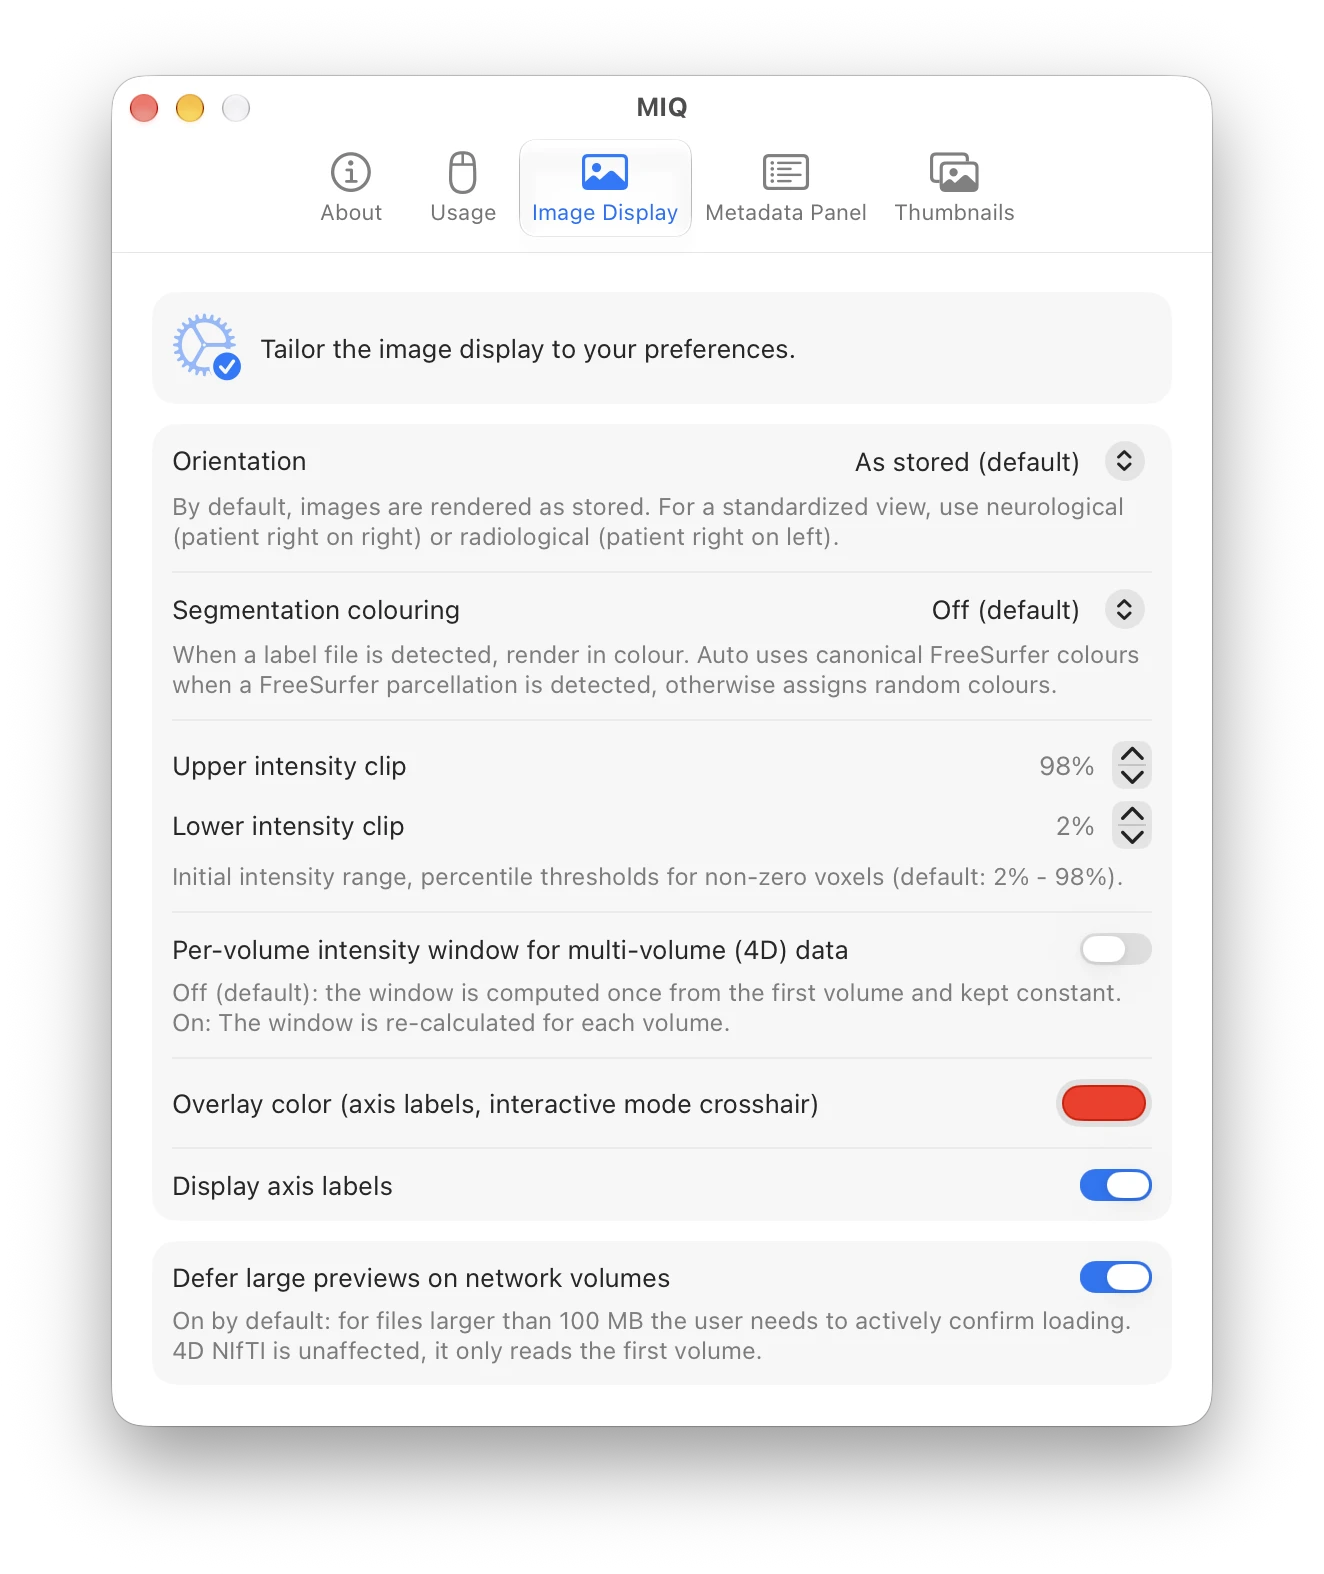
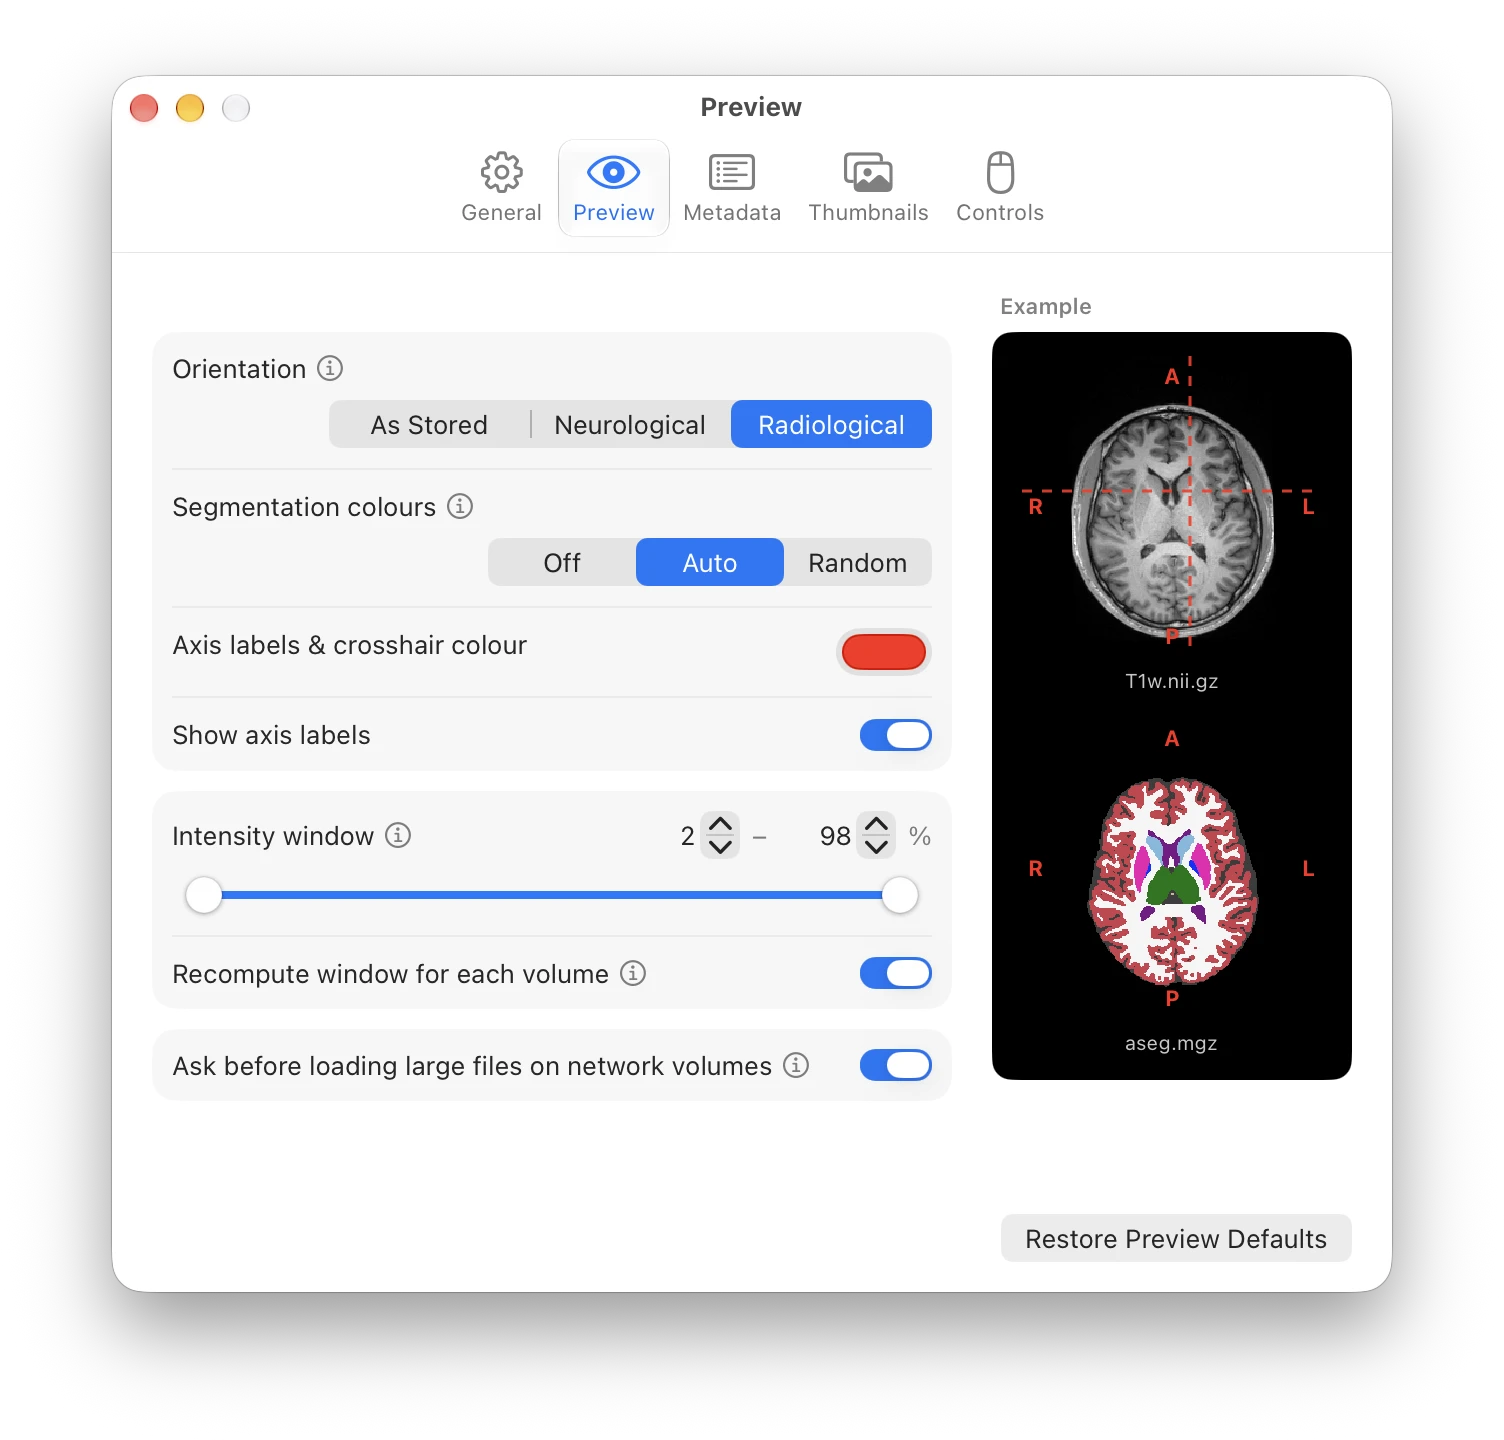
Settings GUI refinement, screenshots update

diff --git a/docs/index.html b/docs/index.html
@@ -351,7 +351,7 @@
       <div class="card">
         <span class="ic">🎨</span>
         <h3>Segmentation colors</h3>
-        <p>Optionally colors integer label maps (segmentations), including the canonical FreeSurfer LUT for aseg/aparc segmentations. Off by default, activate via Settings.</p>
+        <p>Automatically colors integer label maps (segmentations), using the canonical FreeSurfer LUT for aseg/aparc parcellations. Can be switched off in the companion app.</p>
       </div>
     </div>
   </div>
@@ -431,20 +431,20 @@ brew install --cask miq</pre>
     <div class="section-head">
       <span class="eyebrow">Make it yours</span>
       <h2>Settings for every preference</h2>
-      <p>Adjust render orientation, intensity scaling, label colors, and the metadata panel from the companion app.</p>
+      <p>Adjust orientation, intensity scaling, label colors, the metadata panel and thumbnails in the companion app, with a live example for every change.</p>
     </div>
     <div class="grid shots3">
       <picture>
         <source media="(prefers-color-scheme: dark)" srcset="MIQ_settings1_dark.webp">
-        <img src="MIQ_settings1.webp" alt="MIQ settings: general" loading="lazy">
+        <img src="MIQ_settings1.webp" alt="MIQ settings: Preview pane with a live example" loading="lazy">
       </picture>
       <picture>
         <source media="(prefers-color-scheme: dark)" srcset="MIQ_settings2_dark.webp">
-        <img src="MIQ_settings2.webp" alt="MIQ settings: appearance" loading="lazy">
+        <img src="MIQ_settings2.webp" alt="MIQ settings: Metadata pane with a live example" loading="lazy">
       </picture>
       <picture>
         <source media="(prefers-color-scheme: dark)" srcset="MIQ_settings3_dark.webp">
-        <img src="MIQ_settings3.webp" alt="MIQ settings: metadata panel" loading="lazy">
+        <img src="MIQ_settings3.webp" alt="MIQ settings: Thumbnails pane with a live example" loading="lazy">
       </picture>
     </div>
   </div>

diff --git a/docs/privacy.html b/docs/privacy.html
@@ -37,7 +37,7 @@
 <body>
 <div class="wrap">
   <h1>Privacy Policy</h1>
-  <p class="updated">Last updated: 2 June 2026</p>
+  <p class="updated">Last updated: 6 October 2026</p>
 
   <p>MIQ is a free, open-source macOS app. This website and the app set <strong>no cookies and use no analytics or tracking</strong>. The only personal data involved is described below.</p>
 
@@ -45,7 +45,7 @@
   <p>This site is hosted on <strong>GitHub Pages</strong>. When you visit, GitHub Inc. (USA) automatically records technical data such as your IP address and browser type in its server logs, and the embedded screenshots and demo video are loaded from GitHub servers. This processing is carried out by GitHub under <a href="https://docs.github.com/site-policy/privacy-policies/github-general-privacy-statement">its privacy statement</a>.</p>
 
   <h2>App</h2>
-  <p>The MIQ app runs entirely on your Mac. It does not transmit your files or any usage data. It only contacts GitHub to check for new releases; this request reveals your IP address to GitHub, as with any web request.</p>
+  <p>The MIQ app runs entirely on your Mac. It does not transmit your files or any usage data. Its only network access is the update check: it fetches the release list from this website (<code>miq.marco-duering.net</code>, hosted on GitHub Pages) and, if you install an update, downloads it from GitHub. Automatic checks are on by default and can be turned off in the app's General pane. These requests send no information about you or your Mac beyond the installed MIQ version, but like any web request they reveal your IP address to GitHub.</p>
 
   <h2>Your rights</h2>
   <p>Under the Swiss Federal Act on Data Protection (revFADP) you may request access to, correction of, or deletion of personal data concerning you. As this project holds no personal data of its own, such requests relate to the logs held by GitHub. For anything regarding this project, contact the operator below.</p>

diff --git a/MIQApp/SettingsSamplePreview.swift b/MIQApp/SettingsSamplePreview.swift
@@ -21,7 +21,7 @@ enum SettingsSample: String, Sendable, CaseIterable {
     var displayName: String {
         switch self {
         case .intensity: return "T1w.nii.gz"
-        case .labels:    return "aseg.mgh"
+        case .labels:    return "aseg.mgz"
         }
     }
 }
@@ -168,7 +168,8 @@ struct SampleSliceView: View {
                     path.move(to: CGPoint(x: 0, y: side * Self.crosshair.y))
                     path.addLine(to: CGPoint(x: side, y: side * Self.crosshair.y))
                 }
-                .stroke(overlayColor.opacity(0.9), lineWidth: 1)
+                // Same stroke as `MIQSliceCanvas.drawCrosshair`.
+                .stroke(overlayColor.opacity(0.9), style: StrokeStyle(lineWidth: 1.5, dash: [5, 5]))
             }
             if showsLabels, let labels = render?.labels {
                 edgeLabels(labels)

diff --git a/MIQApp/ContentView.swift b/MIQApp/ContentView.swift
@@ -546,7 +546,8 @@ struct ContentView: View {
                 hideDisclaimerInPreview = true
             }
         } message: {
-            Text(Self.disclaimerText + "\n\nBy hiding the disclaimer in previews, you confirm that you understand and accept these terms.")
+            // Alerts render plain text, so drop the Markdown emphasis.
+            Text(Self.disclaimerText.replacingOccurrences(of: "**", with: "") + "\n\nBy hiding the disclaimer in previews, you confirm that you understand and accept these terms.")
         }
         .alert("Reset all settings?", isPresented: $showResetAllConfirm) {
             Button("Cancel", role: .cancel) {}

diff --git a/scripts/dev/make_settings_sample.py b/scripts/dev/make_settings_sample.py
@@ -15,7 +15,8 @@ position in world space. --flip-rows stores the rows in reverse order (with
 the sform adjusted to match, and the qform cleared), so the sample's "As
 Stored" view genuinely differs from the neurological and radiological ones.
 --flip-cols does the same for the columns (both together: an LPS sample from
-an RAS volume).
+an RAS volume). --transpose swaps rows and columns (applied after any
+flips), so "As Stored" shows the slice on its side.
 Check the result by pressing Space on it in Finder.
 
 It also writes OUTPUT's window table (SampleX.nii.gz -> SampleX.window.json):
@@ -78,6 +79,7 @@ def main():
     parser.add_argument("--slice", type=int, help="index along the third storage axis (default: centre)")
     parser.add_argument("--flip-rows", action="store_true", help="store the rows in reverse order")
     parser.add_argument("--flip-cols", action="store_true", help="store the columns in reverse order")
+    parser.add_argument("--transpose", action="store_true", help="swap rows and columns")
     args = parser.parse_args()
 
     with open_any(args.input, "rb") as f:
@@ -153,6 +155,22 @@ def main():
             srow[0] = -srow[0]
             hdr[row:row + 16] = struct.pack(e + "4f", *srow)
         hdr[252:254] = struct.pack(e + "h", 0)
+
+    if args.transpose:
+        if struct.unpack(e + "h", hdr[254:256])[0] <= 0:
+            sys.exit("--transpose needs an sform (sform_code > 0).")
+        vb = bitpix // 8
+        payload = b"".join(payload[(j * nx + i) * vb:(j * nx + i + 1) * vb] for i in range(nx) for j in range(ny))
+        # Voxel (i, j) now holds former (j, i): swap the first two columns.
+        for row in (280, 296, 312):
+            srow = list(struct.unpack(e + "4f", hdr[row:row + 16]))
+            srow[0], srow[1] = srow[1], srow[0]
+            hdr[row:row + 16] = struct.pack(e + "4f", *srow)
+        hdr[252:254] = struct.pack(e + "h", 0)
+        dim[1], dim[2] = ny, nx
+        pixdim[1], pixdim[2] = pixdim[2], pixdim[1]
+        hdr[76:108] = struct.pack(e + "8f", *pixdim)
+        nx, ny = ny, nx
 
     dim[0], dim[3], dim[4] = 3, 1, 1
     hdr[40:56] = struct.pack(e + "8h", *dim)

diff --git a/README.md b/README.md
@@ -46,9 +46,10 @@ The app and extension can be installed manually or via the package manager [Home
 
 #### Updating
 
-MIQ updates itself. Open the MIQ app and choose MIQ → Check for Updates…, or leave Automatically check for updates enabled in Settings → About. 
+MIQ updates itself. Open the MIQ app and choose MIQ → Check for Updates…, or leave **Check for updates automatically** enabled in the app's **General** pane (on by default).
 
 Automatic checks and updates happen when you open the main app, so make sure to do this from time to time.
+
 ### Installation via Homebrew
 
 1. Install on the command line:
@@ -78,20 +79,20 @@ MIQ is a lightweight convenience tool for quickly inspecting medical image files
 
 ### Customization
 
-Use the settings (main app) to tailor the preview and thumbnails to your needs. The app's **Usage** panel documents the full set of preview and 4D-scrubbing gestures.
+Use the MIQ app to tailor the preview, metadata panel and thumbnails. Live examples show the effect of each setting as you change it. The **Controls** pane lists all gestures for the interactive preview.
 
 <div align="center">
   <picture>
     <source media="(prefers-color-scheme: dark)" srcset="https://raw.githubusercontent.com/marcoduering/MIQ/main/docs/MIQ_settings1_dark.webp">
-    <img src="https://raw.githubusercontent.com/marcoduering/MIQ/main/docs/MIQ_settings1.webp" width="32%" alt="MIQ settings, Image Display pane: render orientation, upper and lower intensity clip percentiles, per-volume intensity window for 4D data, overlay colour, and a toggle for axis labels.">
+    <img src="https://raw.githubusercontent.com/marcoduering/MIQ/main/docs/MIQ_settings1.webp" width="32%" alt="MIQ settings, Preview pane: orientation, segmentation colours, axis label and crosshair colour, and intensity window controls beside a live example of the rendered preview.">
   </picture>
   <picture>
     <source media="(prefers-color-scheme: dark)" srcset="https://raw.githubusercontent.com/marcoduering/MIQ/main/docs/MIQ_settings2_dark.webp">
-    <img src="https://raw.githubusercontent.com/marcoduering/MIQ/main/docs/MIQ_settings2.webp" width="32%" alt="MIQ settings, Metadata Panel pane: a drag-and-drop list of the fields shown in the preview's metadata panel (format, dimensions, spacing, orientation, datatype, volumes and scaling), each with its own on/off toggle.">
+    <img src="https://raw.githubusercontent.com/marcoduering/MIQ/main/docs/MIQ_settings2.webp" width="32%" alt="MIQ settings, Metadata pane: a reorderable list of metadata fields, each with an on/off toggle, beside a live example of the metadata panel.">
   </picture>
   <picture>
     <source media="(prefers-color-scheme: dark)" srcset="https://raw.githubusercontent.com/marcoduering/MIQ/main/docs/MIQ_settings3_dark.webp">
-    <img src="https://raw.githubusercontent.com/marcoduering/MIQ/main/docs/MIQ_settings3.webp" width="32%" alt="MIQ settings, Thumbnails pane: a toggle to show image slices as Finder file thumbnails (off by default), a button to copy the refresh command, and independent orientation and intensity clip controls for thumbnails.">
+    <img src="https://raw.githubusercontent.com/marcoduering/MIQ/main/docs/MIQ_settings3.webp" width="32%" alt="MIQ settings, Thumbnails pane: a toggle for Finder slice thumbnails with orientation, segmentation colour and intensity window controls, beside a live example of the Finder icons.">
   </picture>
 </div>
 
